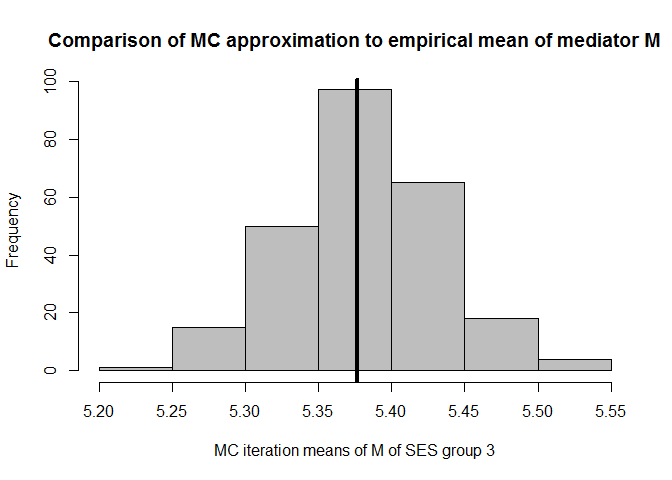
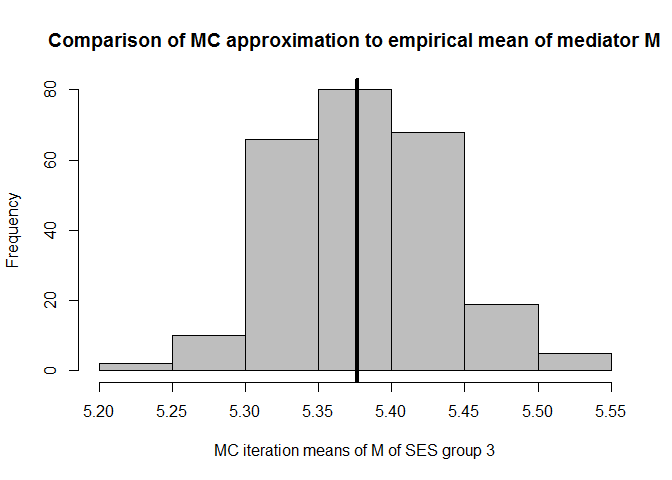
Update for travis badge

diff --git a/README.md b/README.md
@@ -5,6 +5,8 @@
 
 <!-- badges: start -->
 
+[![Build
+Status](https://travis-ci.com/MaartenBijlsma/cfdecomp.svg?branch=master)](https://travis-ci.com/MaartenBijlsma/cfdecomp)
 <!-- badges: end -->
 
 cfdecomp provides functions to decompose differences in an outcome
@@ -60,7 +62,7 @@ abline(v=mean(cfd.example.data$med.gauss[cfd.example.data$SES==1]),lwd=4)
 ``` r
 # approximation of the mean of M over the Monte Carlo iterations for SES group 1:
 mean(mean.results.1$out_nc_m[,1])
-#> [1] 8.16126
+#> [1] 8.165792
 # empirical mean of mediator M for SES group 1:
 mean(cfd.example.data$med.gauss[cfd.example.data$SES==1])
 #> [1] 8.163461
@@ -77,7 +79,7 @@ abline(v=mean(cfd.example.data$med.gauss[cfd.example.data$SES==2]),lwd=4)
 
 ``` r
 mean(mean.results.1$out_nc_m[,2]);mean(cfd.example.data$med.gauss[cfd.example.data$SES==2])
-#> [1] 7.184265
+#> [1] 7.190697
 #> [1] 7.186521
 # conclusion: also for group 2, approximation is good
 
@@ -92,7 +94,7 @@ abline(v=mean(cfd.example.data$med.gauss[cfd.example.data$SES==3]),lwd=4)
 
 ``` r
 mean(mean.results.1$out_nc_m[,3]);mean(cfd.example.data$med.gauss[cfd.example.data$SES==3])
-#> [1] 5.38247
+#> [1] 5.38139
 #> [1] 5.376548
 # conclusion: also for group 3, approximation of M is good
 
@@ -108,7 +110,7 @@ abline(v=mean(cfd.example.data$out.gauss[cfd.example.data$SES==1]),lwd=4)
 
 ``` r
 mean(mean.results.1$out_nc_y[,1]);mean(cfd.example.data$out.gauss[cfd.example.data$SES==1])
-#> [1] 4.143745
+#> [1] 4.148531
 #> [1] 4.145881
 # conclusion: on average, our distributions of means of Y centers on the empirical distribution of Y 
 
@@ -123,7 +125,7 @@ abline(v=mean(cfd.example.data$out.gauss[cfd.example.data$SES==2]),lwd=4)
 
 ``` r
 mean(mean.results.1$out_nc_y[,2]);mean(cfd.example.data$out.gauss[cfd.example.data$SES==2])
-#> [1] 3.282854
+#> [1] 3.286306
 #> [1] 3.284409
 # conclusion: also for group 2, approximation of Y is good
 
@@ -138,7 +140,7 @@ abline(v=mean(cfd.example.data$out.gauss[cfd.example.data$SES==3]),lwd=4)
 
 ``` r
 mean(mean.results.1$out_nc_y[,3]);mean(cfd.example.data$out.gauss[cfd.example.data$SES==3])
-#> [1] 2.230554
+#> [1] 2.231659
 #> [1] 2.227222
 # conclusion: also for group 3, approximation of Y is good
 
@@ -147,26 +149,26 @@ mean(mean.results.1$out_nc_y[,3]);mean(cfd.example.data$out.gauss[cfd.example.da
 # estimate the effect of the intervention and proportion mediated (decomposition)
 # the differences between SES groups 1 and 2 were first:
 mean(mean.results.1$out_nc_y[,2] - mean.results.1$out_nc_y[,1])
-#> [1] -0.8608917
+#> [1] -0.8622249
 # and after giving the gaussian mediator of SES group 2 the distribution of the one in group 1
 # the difference becomes:
 mean(mean.results.1$out_cf_y[,2] - mean.results.1$out_nc_y[,1])
-#> [1] -0.6535251
+#> [1] -0.6567513
 # so the proportion of the outcome Y that is due to differences between the two SES groups in the gaussian mediator is
 mean(1-(mean.results.1$out_cf_y[,2] - mean.results.1$out_nc_y[,1]) / (mean.results.1$out_nc_y[,2] - mean.results.1$out_nc_y[,1]))
-#> [1] 0.2415423
+#> [1] 0.2387491
 # we can also get this number, and the one from the comparison of the other SES group with group 1, straight from the object
 mean.results.1$mediation
 #>         2         3 
-#> 0.2415423 0.3070743
+#> 0.2387491 0.3044589
 # you'll notice the first number is the same as the one we calculated ourselves from the output
 # this is the proportion mediated when coming the first and the second SES group
 # the second number is the proportion mediated when comparing the first and the third SES group
 # and we can get the 1-alpha confidence intervals for each:
 mean.results.1$mediation_quantile
 #>               2         3
-#> 2.5%  0.2035786 0.2787623
-#> 97.5% 0.2831425 0.3349259
+#> 2.5%  0.1998024 0.2786597
+#> 97.5% 0.2821616 0.3297141
 
 # if a mediator is binomial distributed
 mean.results.2 <- cfd.mean(formula.y='out.gauss ~ med.pois + age + med.binom',
